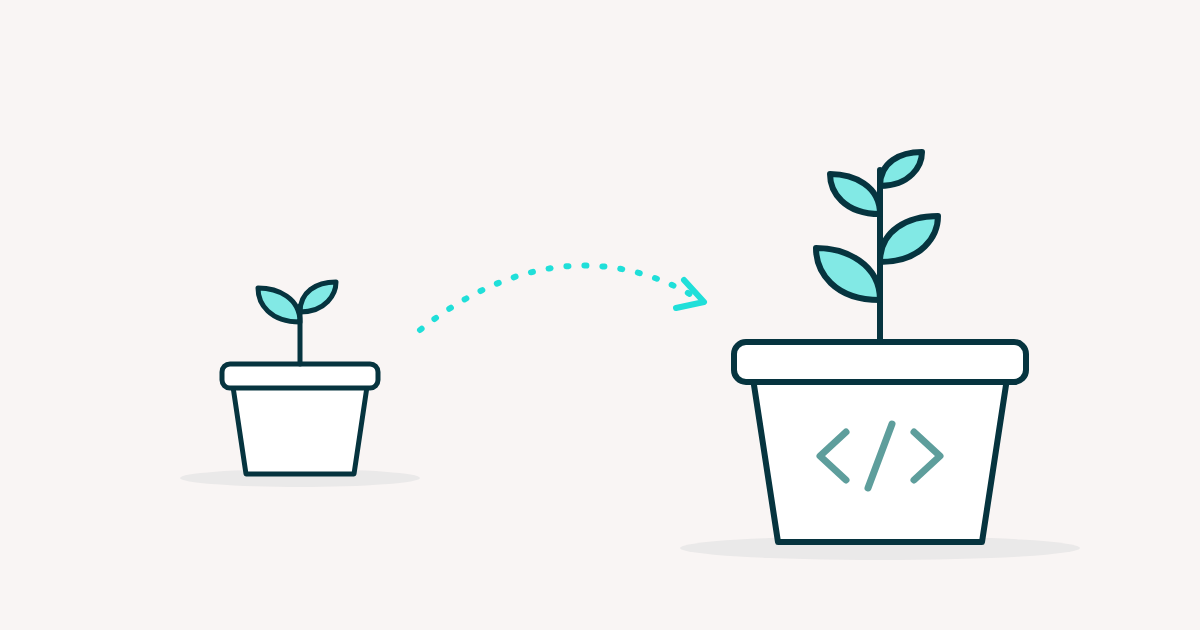
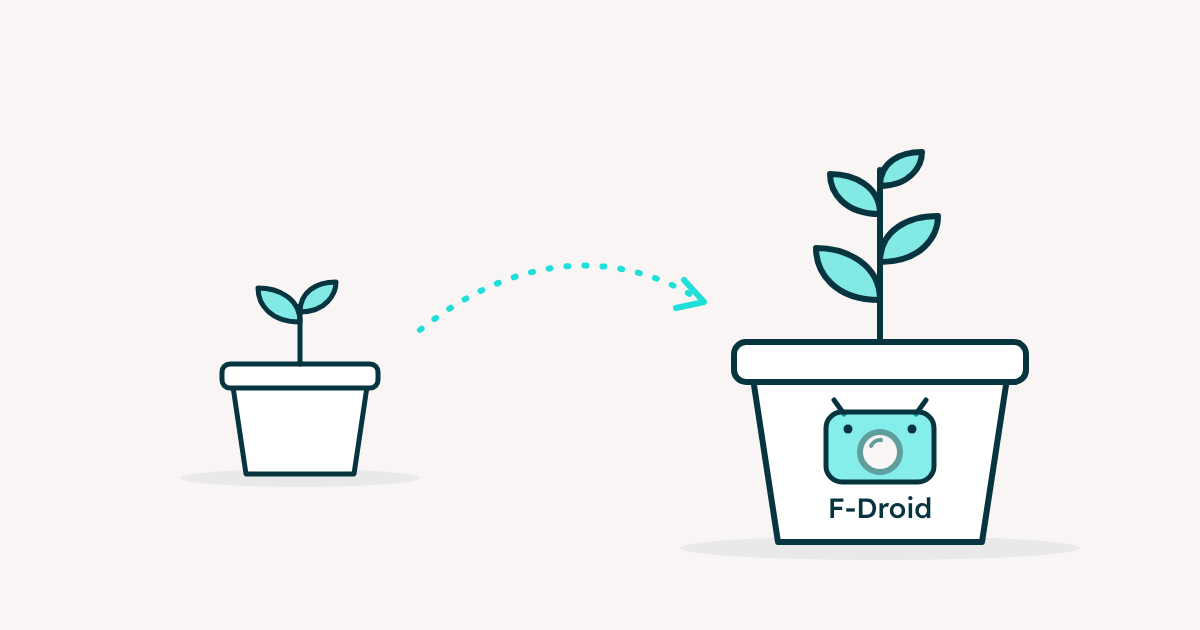
Garden: stores illustration with F-Droid mark
Claude-Session: https://claude.ai/code/session_01JyMh7zskpRqVrSxN7TcDeR

Changed region(s): [[0.6783, 0.6333, 0.8017, 0.8444]]

diff --git a/src/content/garden/en/open-source-stores.md b/src/content/garden/en/open-source-stores.md
@@ -2,7 +2,7 @@
 title: Planting it on F-Droid and IzzyOnDroid
 description: Two open-source app stores brought PlugBrain its first users. A new Google rule could put them at risk.
 date: 2025-07-15
-imageAlt: "A sprout moves from a small pot to a bigger pot marked with a code symbol, where it grows taller."
+imageAlt: "A sprout moves from a small pot to a bigger pot marked with the F-Droid robot, where it grows taller."
 stage: seedling
 draft: true
 ---
